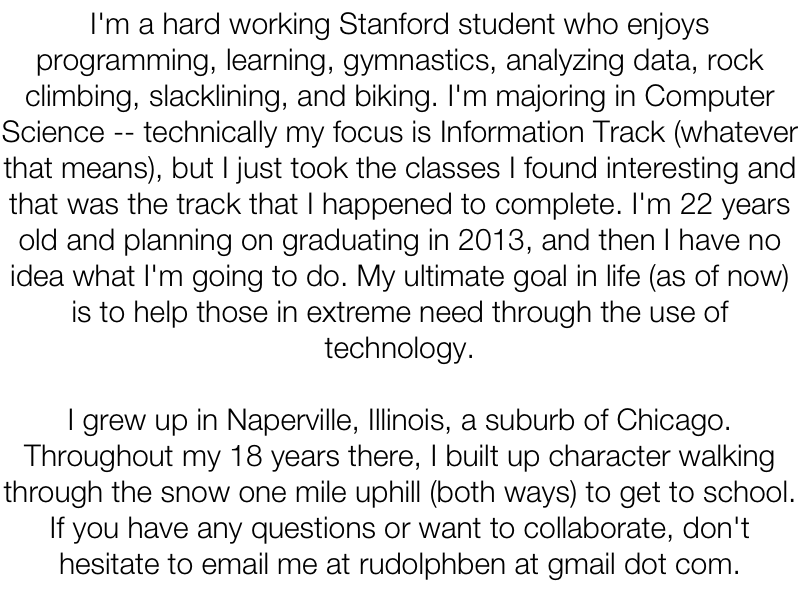
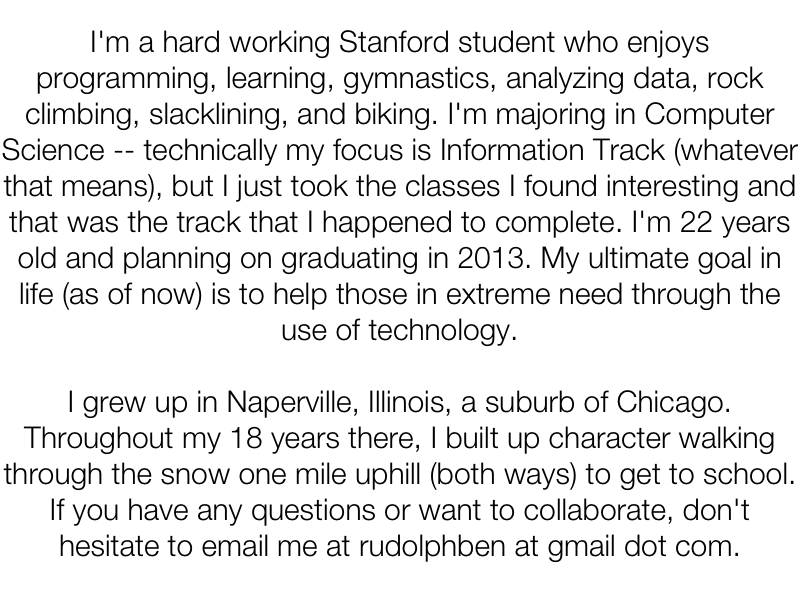
Auto load all pages so images are rendered on load and therefore no delay when viewing pictures.

Changed region(s): [[0.0, 0.0304, 1.0, 0.6071], [0.0, 0.6374, 1.0, 0.9713]]

diff --git a/public/js/me.js b/public/js/me.js
@@ -43,13 +43,16 @@ var Me = function() {
       .domain([0, 1, 2])
 
 
-  this.svg = d3
+  this.svgContainer = d3
       .select("#content")
       .append("svg")
       .attr("class", "svg")
       .attr("height", this.height)
       .attr("width", this.width)
+
+  this.svg = this.svgContainer
       .append("svg:g")
+      .attr("class", "home")
 
   this.interestData = {
     languages: [
@@ -89,7 +92,8 @@ var Me = function() {
 
   }
 
-  this.interestGraph = new InterestGraph(this.svg, this.width, this.height, this.interestData)
+  this.interestGraph = new InterestGraph(this.svgContainer, this.width, this.height, this.interestData)
+  this.interestGraph.render(false)
 
   this.beakerData = [{
     children: [{
@@ -138,11 +142,14 @@ var Me = function() {
     name: "Labs"
   }]
 
-  this.beaker = new Beaker(this.svg, this.width, this.height, this.beakerData)
+  this.beaker = new Beaker(this.svgContainer, this.width, this.height, this.beakerData)
+  this.beaker.render(false)
 
-  this.resume = new Resume(this.svg, this.width, this.height)
+  this.resume = new Resume(this.svgContainer, this.width, this.height)
+  this.resume.render(false)
 
-  this.about = new About(this.svg, this.width, this.height)
+  this.about = new About(this.svgContainer, this.width, this.height)
+  this.about.render(false)
 
 }
 
@@ -324,37 +331,36 @@ Me.prototype.onHomeClick = function() {
 }
 
 Me.prototype.clear = function() {
-  $("svg g:first").empty()
-  $("#about").css("display", "none")
+  $("svg .home").empty()
+  this.interestGraph.display(false)
+  this.beaker.display(false)
+  this.resume.display(false)
+  this.about.display(false)
 
 }
 
 Me.prototype.renderInterests = function() {
   this.clear()
   this.renderHomeButton()
-  this.interestGraph.init()
-  this.interestGraph.render()
+  this.interestGraph.display(true)
 }
 
 Me.prototype.renderResume = function() {
   this.clear()
   this.renderHomeButton()
-  this.resume.init()
-  this.resume.render()
+  this.resume.display(true)
 }
 
 Me.prototype.renderLabs = function(){
   this.clear()
   this.renderHomeButton()
-  this.beaker.init()
-  this.beaker.render()
+  this.beaker.display(true)
 }
 
 Me.prototype.renderAbout = function(){
   this.clear()
   this.renderHomeButton()
-  this.about.init()
-  this.about.render()
+  this.about.display(true)
 }
 
 Me.prototype.showHome = function() {

diff --git a/public/js/about.js b/public/js/about.js
@@ -7,25 +7,44 @@ var About = function(svg, svgWidth, svgHeight) {
 
 }
 
-About.prototype.init = function() {
+About.prototype.display = function(isDisplayed) {
+  d3.select(".about")
+      .style("display", function() {
+        if (isDisplayed)
+          return "block"
+        else
+          return "none"
+      })
+}
+
+About.prototype.render = function(isDisplayed) {
   this.about = this.svg
       .append("svg:g")
       .attr("height", this.height)
       .attr("width", this.width)
+      .attr("class", "about")
       .attr("transform", "translate(" + ((this.svgWidth / 2) - (this.width / 2)) + ", " +
             ((this.svgHeight / 2) - (this.height / 2)) + ")")
-}
+      .style("display", function() {
+        if (isDisplayed)
+          return "block"
+        else
+          return "none"
+      })
 
-About.prototype.render = function() {
-      $("#about").css({ top: (this.svgHeight / 2) - (this.height / 2) + 25 + "px",
-                        left: (this.svgWidth / 2) - (360 / 2) + "px",
-                        display: "block" })
-      $("#about").html("I'm a hard working Stanford student who enjoys programming, learning, gymnastics, analyzing data, rock climbing, slacklining, and biking. I'm majoring in Computer Science -- technically my focus is Information Track (whatever that means), but I just took the classes I found interesting and that was the track that I happened to complete. I'm 22 years old and planning on graduating in 2013. My ultimate goal in life (as of now) is to help those in extreme need through the use of technology.<br /><br /> I grew up in Naperville, Illinois, a suburb of Chicago. Throughout my 18 years there, I built up character walking through the snow one mile uphill (both ways) to get to school. If you have any questions or want to collaborate, don't hesitate to email me at rudolphben at gmail dot com.")
+  this.about
+      .append("image")
+      .attr("xlink:href", "images/about.png")
+      .attr("width", this.width)
+      .attr("height", this.height)
+      .attr("x", 0)
+      .attr("y", 0)
+      .attr("class", "about")
 
   this.about
       .append("circle")
       .attr("cx", this.width / 2)
       .attr("cy", this.height / 2)
-      .attr("r", this.width / 2 + 50)
+      .attr("r", this.width / 2 + 30)
       .attr("class", "aboutCircle")
 }

diff --git a/public/js/interest_graph.js b/public/js/interest_graph.js
@@ -44,15 +44,35 @@ InterestGraph.prototype.setDomain = function() {
       .domain(this.domain)
 }
 
-InterestGraph.prototype.init = function() {
-  this.barGraph = this.svg
+InterestGraph.prototype.display = function(isDisplayed) {
+  d3.select(".interestGraph")
+      .style("display", function() {
+        if (isDisplayed)
+          return "block"
+        else
+          return "none"
+      })
+}
+
+InterestGraph.prototype.render = function(isDisplayed) {
+  var interestGraph = this.svg
+      .append("svg:g")
+      .attr("class", "interestGraph")
+      .style("display", function() {
+        if (isDisplayed)
+          return "block"
+        else
+          return "none"
+      })
+
+  this.barGraph = interestGraph
       .append("svg:g")
       .attr("height", this.height)
       .attr("width", this.width)
       .attr("transform", "translate(" + ((this.svgWidth / 2) - (this.width / 2)) + ", " +
             ((this.svgHeight / 2) - (this.height / 2)) + ")")
 
-  this.legend = this.svg
+  this.legend = interestGraph
       .append("svg:g")
       .attr("class", "legend")
       .attr("height", this.height)
@@ -60,11 +80,13 @@ InterestGraph.prototype.init = function() {
       .attr("transform", "translate(" + ((this.svgWidth / 2) + (this.width / 2)) + ", " +
             ((this.svgHeight / 2) - (this.height / 2)) + ")")
 
+
+  this.renderGraph()
+  this.renderLegend()
 }
 
-InterestGraph.prototype.render = function() {
-
-  this.setDomain()
+InterestGraph.prototype.renderGraph = function() {
+   this.setDomain()
 
   var bars = this.barGraph
       .selectAll(".bar")
@@ -135,7 +157,6 @@ InterestGraph.prototype.render = function() {
       .attr("y1", this.height)
       .attr("y2", this.height)
 
-  this.renderLegend()
 }
 
 InterestGraph.prototype.renderLegend = function() {
@@ -195,6 +216,6 @@ InterestGraph.prototype.switchCategory = function() {
   this.selectedData = this.data.get(this.selectedCategory)
 
   target.classed("selectedCategory", true)
-  this.render()
+  this.renderGraph()
 
 }

diff --git a/public/js/resume.js b/public/js/resume.js
@@ -6,7 +6,17 @@ var Resume = function(svg, svgWidth, svgHeight) {
   this.width = 1000
 }
 
-Resume.prototype.init = function() {
+Resume.prototype.display = function(isDisplayed) {
+  d3.select(".resumeContainer")
+      .style("display", function() {
+        if (isDisplayed)
+          return "block"
+        else
+          return "none"
+      })
+}
+
+Resume.prototype.render = function(isDisplayed) {
   this.page = this.svg
       .append("svg:g")
       .attr("height", this.height)
@@ -14,9 +24,13 @@ Resume.prototype.init = function() {
       .attr("class", "resumeContainer")
       .attr("transform", "translate(" + ((this.svgWidth / 2) - (this.width / 2)) + ", " +
             ((this.svgHeight / 2) - (this.height / 2)) + ")")
-}
+      .style("display", function() {
+        if (isDisplayed)
+          return "block"
+        else
+          return "none"
+      })
 
-Resume.prototype.render = function() {
   this.page
       .append("image")
       .attr("xlink:href", "images/resume.png")

diff --git a/public/js/beaker.js b/public/js/beaker.js
@@ -22,18 +22,31 @@ var Beaker = function(svg, svgWidth, svgHeight, beakerData) {
 
 }
 
-Beaker.prototype.init = function() {
+Beaker.prototype.display = function(isDisplayed) {
+  d3.select(".projects")
+      .style("display", function() {
+        if (isDisplayed)
+          return "block"
+        else
+          return "none"
+      })
+}
+
+Beaker.prototype.render = function(isDisplayed) {
   this.beaker = this.svg
       .append("svg:g")
       .attr("height", this.height)
       .attr("width", this.width)
+      .attr("class", "projects")
       .attr("transform", "translate(" + ((this.svgWidth / 2) - (this.width / 2)) + ", " +
             ((this.svgHeight / 2) - (this.height / 2)) + ")")
+      .style("display", function() {
+        if (isDisplayed)
+          return "block"
+        else
+          return "none"
+      })
 
-
-}
-
-Beaker.prototype.render = function() {
   var lab = this.beaker
       .data(this.data)
       .selectAll(".lab")

diff --git a/public/index.html b/public/index.html
@@ -10,7 +10,6 @@
       <h5 class="name"></h5>
       <div class="description"></div>
     </div>
-    <div id="about"></div>
     <div id="content"></div>
   </body>
   <script src="lib/jquery.min.js"></script>

diff --git a/public/css/style.css b/public/css/style.css
@@ -94,13 +94,6 @@
   font-size: 34px;
 }
 
-#about {
-  position: absolute;
-  width: 360px;
-  height: 400px;
-  text-align: center;
-}
-
 .aboutCircle {
   fill-opacity: 0;
   stroke: #191919;
